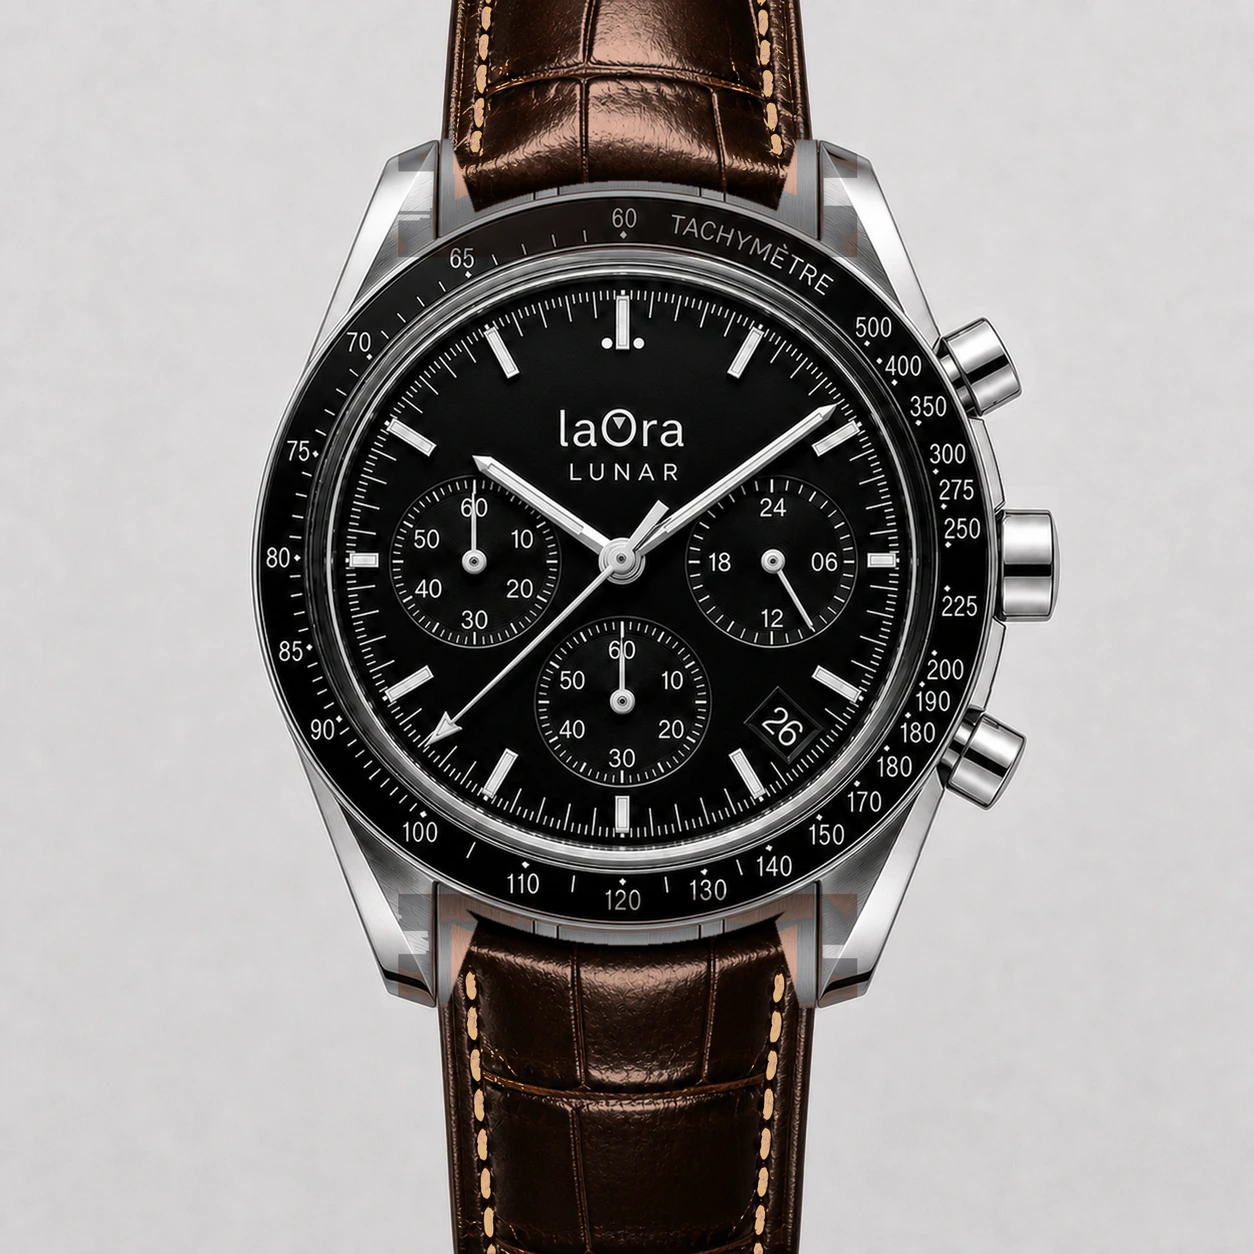
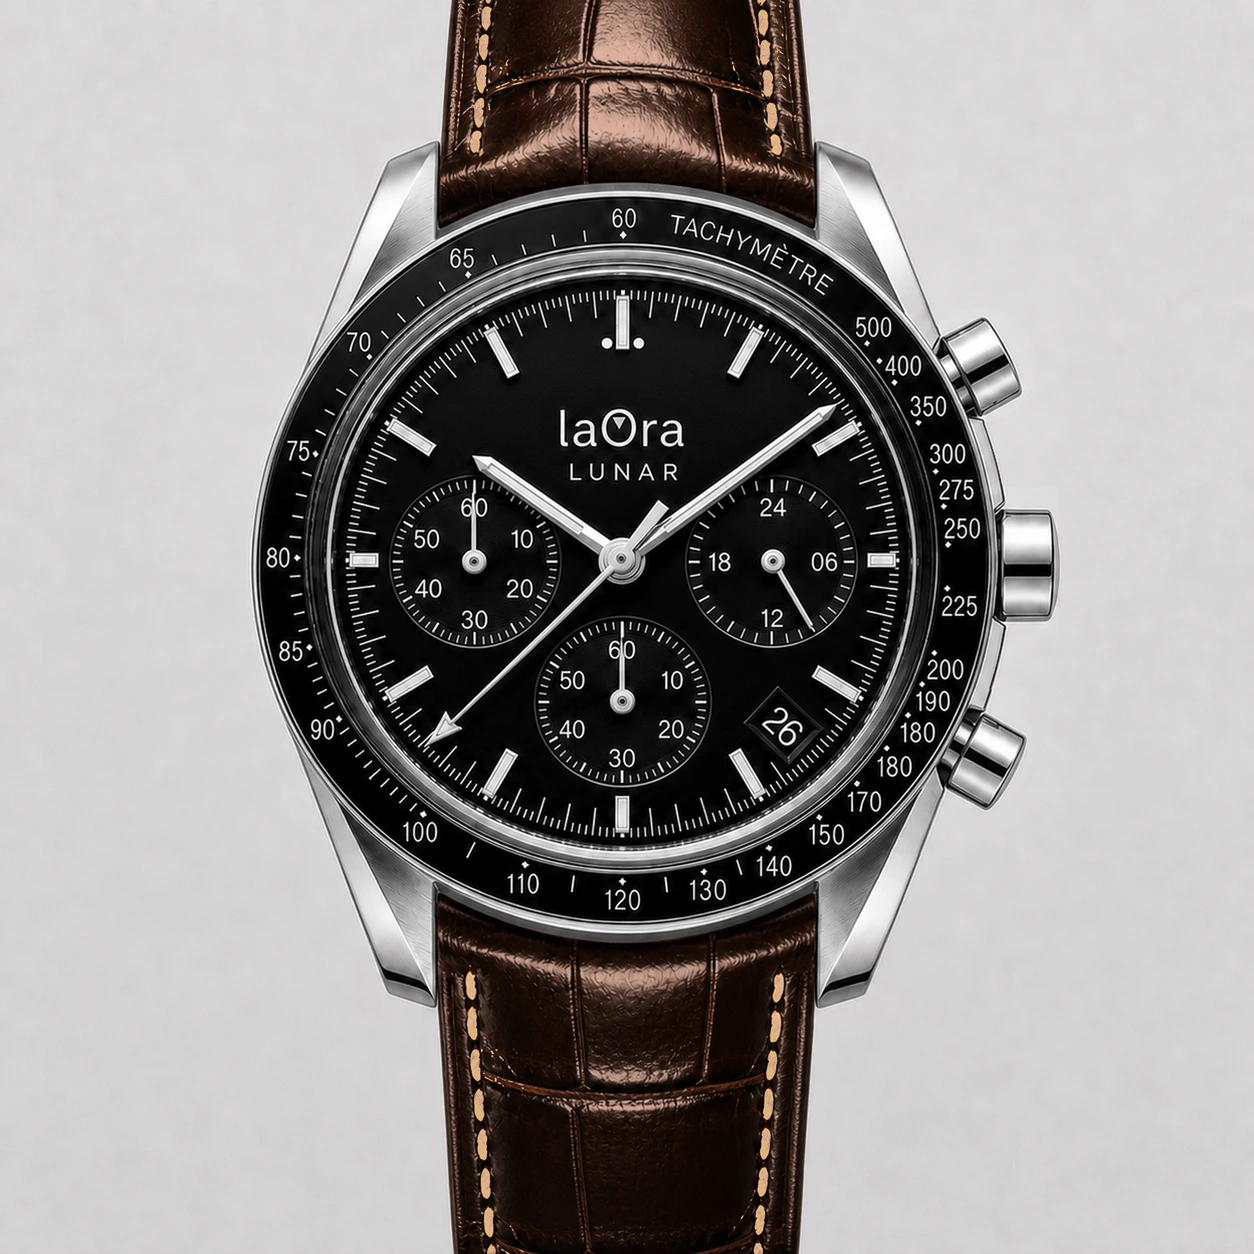
Lunar: madre integrada de la piel italiana marrón, con sus dos pespuntes
La correa abraza la caja con volumen, y además viene con caja de acero
de origen: la anterior traía la caja en oro rosa y hubo que
transplantarle el acero de su hermana negra. Ese apaño se retira.

De paso estrena pespunte al tono, que hasta ahora estaba tachado por
falta de foto: el hilo crema teñido de marrón desde la misma madre, con
el método de la negra integrada —el hilo se localiza por dónde va, a un
11% y un 88% del ancho de la correa, no por luz, porque el charol brilla
tanto como el hilo—.

Comprobadas todas las cabezas sobre la madre nueva.

Changed region(s): [[0.311, 0.0933, 0.6842, 0.2488], [0.311, 0.6842, 0.6842, 0.8086]]

diff --git a/lunar.html b/lunar.html
@@ -288,9 +288,11 @@
       tec: 'piel de vaca genuina negra con relieve de cocodrilo y liberación rápida' },
     'piel-italiana-negra-pespunte-negro': { coste: 29.99, cierre: 'Hebilla de pinza', italiana: true,
       tec: 'piel de vaca genuina negra con relieve de cocodrilo y liberación rápida' },
-    'piel-italiana-marron': { coste: 29.99, cierre: 'Hebilla de pinza', italiana: true, pespunte: 'contraste',
+    'piel-italiana-marron': { coste: 29.99, cierre: 'Hebilla de pinza', italiana: true,
       tec: 'piel de vaca genuina marrón con relieve de cocodrilo y liberación rápida' },
-    'piel-italiana-azul':   { coste: 29.99, cierre: 'Hebilla de pinza', italiana: true, pespunte: 'color',
+    'piel-italiana-marron-pespunte-tono': { coste: 29.99, cierre: 'Hebilla de pinza', italiana: true,
+      tec: 'piel de vaca genuina marrón con relieve de cocodrilo y liberación rápida' },
+    'piel-italiana-azul':   { coste: 29.99, cierre: 'Hebilla de pinza', italiana: true,
       tec: 'piel de vaca genuina azul con relieve de cocodrilo y liberación rápida' },
     /* Caucho (P-019). Lo que cambia entre variantes es la COSTURA, así
        que ahí es donde va la paleta del tipo. */
@@ -325,7 +327,8 @@
                        correa: 'piel-italiana-negra-pespunte-negro' } } },
       'marron': { nombre: 'Marrón', color: '#5B3A28', pespuntes: {
         'contraste': { nombre: 'Contraste', tec: 'pespunte blanco de contraste', correa: 'piel-italiana-marron' },
-        'color':     { nombre: 'A color',   tec: 'pespunte al tono de la piel' } } },
+        'color':     { nombre: 'A color',   tec: 'pespunte marrón al tono de la piel',
+                       correa: 'piel-italiana-marron-pespunte-tono' } } },
       'azul':   { nombre: 'Azul',   color: '#1E2B47', pespuntes: {
         'contraste': { nombre: 'Contraste', tec: 'pespunte blanco de contraste' },
         'color':     { nombre: 'A color',   tec: 'pespunte al tono de la piel', correa: 'piel-italiana-azul' } } } } },
@@ -651,7 +654,7 @@
   });
 
   /* El manifiesto manda: de él salen las rutas de todas las capas. */
-  fetch('/assets/img/lunar-config/manifest.json?v=20')
+  fetch('/assets/img/lunar-config/manifest.json?v=21')
     .then(function (r) { return r.json(); })
     .then(function (m) { M = m; normaliza(); pinta(); });
 })();

diff --git a/herramientas/recolorear_pespunte.py b/herramientas/recolorear_pespunte.py
@@ -171,6 +171,55 @@ def hilo_blanco_a_negro():
     print('escrita piel-italiana-negra-pespunte-negro')
 
 
+def hilo_crema_al_tono(color, madre, salida, tinte_hsv):
+    """El pespunte al tono, en las pieles italianas integradas.
+
+    Vale para la negra y para la marrón: mismo charol, mismo problema.
+    El hilo se localiza por dónde va —a un 11% y un 88% del ancho de la
+    correa, fila a fila— porque por luz ya no se separa de los reflejos.
+    `tinte_hsv` es (tono, saturación, factor de brillo): con saturación
+    0 sale un pespunte negro y con color, uno al tono de la piel.
+    """
+    from PIL import ImageFilter
+    a = np.asarray(Image.open(madre).convert('RGB')).astype(float) / 255.0
+    v = a.max(-1)
+
+    fondo = np.abs(a - a[8, 8]).max(axis=2) < 0.055
+    fondo = np.asarray(Image.fromarray((fondo * 255).astype('uint8'))
+                       .filter(ImageFilter.MinFilter(45))
+                       .filter(ImageFilter.MaxFilter(45))) > 128
+    cab = np.asarray(Image.open('assets/img/lunar-config/heads/'
+                                'cab-acero-bnegro-agujas-plateadas.webp')
+                     .convert('RGBA'))[:, :, 3] > 40
+    cab = np.asarray(Image.fromarray((cab * 255).astype('uint8'))
+                     .filter(ImageFilter.MaxFilter(21))
+                     .resize(a.shape[1::-1], Image.NEAREST)) > 128
+    correa = (~fondo) & (~cab)
+
+    dentro = np.zeros_like(correa)
+    for y in np.flatnonzero(correa.any(axis=1)):
+        xs = np.flatnonzero(correa[y])
+        x0, x1 = xs.min(), xs.max()
+        ancho = x1 - x0
+        if ancho < 60:
+            continue
+        for a0, a1 in ((0.05, 0.20), (0.80, 0.95)):
+            dentro[y, int(x0 + ancho * a0):int(x0 + ancho * a1)] = True
+    hilo = correa & dentro & (v > 0.55)
+    print('%s: hilo aislado %d px' % (color, hilo.sum()))
+
+    peso = np.asarray(Image.fromarray((hilo * 255).astype('uint8'))
+                      .filter(ImageFilter.MaxFilter(9))
+                      .filter(ImageFilter.GaussianBlur(1.6))).astype(float) / 255.0
+    peso = np.clip(peso, 0, 1)[..., None]
+
+    tono, sat, fv = tinte_hsv
+    tinte = a_rgb(np.full_like(v, tono), np.full_like(v, sat), np.clip(v * fv, 0, 1))
+    out = a * (1 - peso) + tinte * peso
+    Image.fromarray((np.clip(out, 0, 1) * 255).astype('uint8')).save(salida)
+    print('escrita', salida.split('/')[-1])
+
+
 def recolorea():
     a = np.asarray(Image.open(MADRE).convert('RGB')).astype(float) / 255.0
     h, s, v = a_hsv(a)
